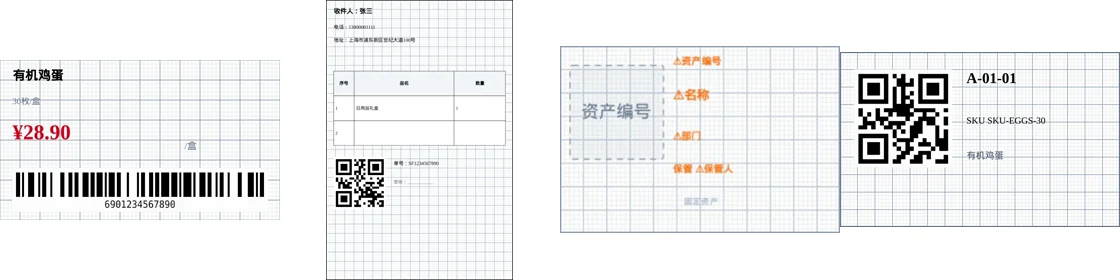
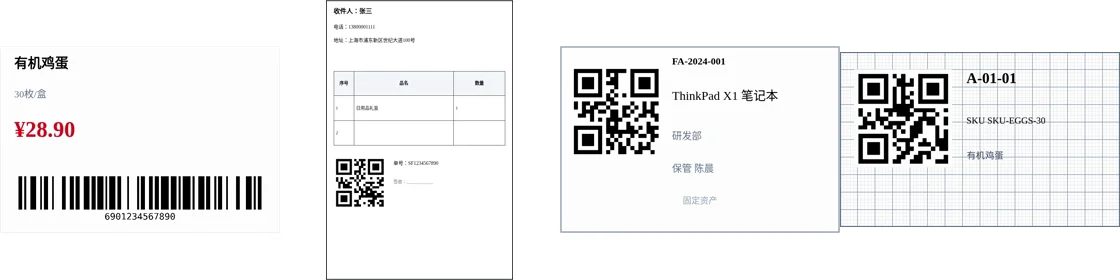
fix(marketing): production preview assets, white capture mode, template polish
Use ci64.com print-preview WebPs for price/waybill/asset specimens; re-capture
hero with ?marketingCapture=1 (white desk, grid off). Polish built-in scene
templates and tpl_price_tag layout. Preserve marketingCapture query after apply.

diff --git a/src/utils/templates.js b/src/utils/templates.js
@@ -21,6 +21,11 @@ const qrcode = (id, name, { left, top, width, height, binding = '', text: t = ''
   text: t, binding
 })
 
+const rect = (id, name, { left, top, width, height, fill = '#2563eb', stroke = '', strokeWidth = 0 }) => ({
+  id, type: 'rect', name, left, top, width, height, angle: 0,
+  fill, stroke, strokeWidth, binding: ''
+})
+
 const table = (id, name, { left, top, width, height, rows, cols, fontSize = 8, cells = {}, colWidths = [], cellPadding = 1 }) => ({
   id, type: 'table', name, left, top, width, height, angle: 0,
   rows, cols, cellPadding, borderColor: '#333', borderWidth: 0.2,
@@ -45,10 +50,10 @@ export const BUILTIN_TEMPLATES = [
     margin: zeroMargin,
     layout: { ...singleLayout },
     components: [
-      text('tpl_price_tag-c1', '商品名', { left: 3, top: 2, width: 54, height: 7, text: '{{产品名称}}', fontSize: 11, fontWeight: 'bold' }),
-      text('tpl_price_tag-c2', '规格', { left: 3, top: 9, width: 54, height: 5, text: '{{规格}}', fontSize: 8, fill: '#64748b' }),
-      text('tpl_price_tag-c3', '价格', { left: 3, top: 15, width: 54, height: 10, text: '¥{{价格}}', fontSize: 18, fontWeight: 'bold', fill: '#d0021b' }),
-      barcode('tpl_price_tag-c4', '条码', { left: 3, top: 27, width: 54, height: 11, binding: '条码' })
+      text('tpl_price_tag-c1', '商品名', { left: 4, top: 3, width: 52, height: 8, text: '{{产品名称}}', fontSize: 12, fontWeight: 'bold' }),
+      text('tpl_price_tag-c2', '规格', { left: 4, top: 11, width: 52, height: 5, text: '{{规格}}', fontSize: 8, fill: '#64748b' }),
+      text('tpl_price_tag-c3', '价格', { left: 4, top: 17, width: 52, height: 12, text: '¥{{价格}}', fontSize: 22, fontWeight: 'bold', fill: '#d0021b' }),
+      barcode('tpl_price_tag-c4', '条码', { left: 4, top: 30, width: 52, height: 9, binding: '条码' })
     ]
   },
   {
@@ -136,11 +141,13 @@ export const BUILTIN_TEMPLATES = [
     margin: zeroMargin,
     layout: { ...singleLayout },
     components: [
-      text('tpl_express-c1', '收件人', { left: 4, top: 4, width: 92, height: 8, text: '收件人：{{收件人}}', fontSize: 13, fontWeight: 'bold' }),
-      text('tpl_express-c2', '电话', { left: 4, top: 13, width: 92, height: 6, text: '电话：{{电话}}', fontSize: 10 }),
-      text('tpl_express-c3', '地址', { left: 4, top: 20, width: 92, height: 14, text: '地址：{{地址}}', fontSize: 10 }),
+      rect('tpl_express-r1', '标题栏', { left: 0, top: 0, width: 100, height: 10, fill: '#2563eb' }),
+      text('tpl_express-h1', '标题', { left: 4, top: 2.5, width: 92, height: 5, text: '快递面单', fontSize: 11, fontWeight: 'bold', fill: '#ffffff', textAlign: 'center' }),
+      text('tpl_express-c1', '收件人', { left: 5, top: 13, width: 90, height: 7, text: '{{收件人}}', fontSize: 14, fontWeight: 'bold' }),
+      text('tpl_express-c2', '电话', { left: 5, top: 21, width: 90, height: 5, text: '电话 {{电话}}', fontSize: 9, fill: '#475569' }),
+      text('tpl_express-c3', '地址', { left: 5, top: 27, width: 90, height: 12, text: '{{地址}}', fontSize: 9, fill: '#334155' }),
       table('tpl_express-c4', '明细', {
-        left: 4, top: 38, width: 92, height: 40, rows: 3, cols: 3, fontSize: 9,
+        left: 5, top: 42, width: 90, height: 36, rows: 3, cols: 3, fontSize: 8,
         colWidths: [12, 58, 30],
         cells: {
           '0,0': { text: '序号', binding: '' },
@@ -154,9 +161,9 @@ export const BUILTIN_TEMPLATES = [
           '2,2': { text: '', binding: '' }
         }
       }),
-      qrcode('tpl_express-c5', '面单二维码', { left: 4, top: 84, width: 28, height: 28, binding: '单号' }),
-      text('tpl_express-c6', '单号', { left: 36, top: 86, width: 60, height: 7, text: '单号：{{单号}}', fontSize: 10 }),
-      text('tpl_express-c7', '备注', { left: 36, top: 96, width: 60, height: 14, text: '签收：____________', fontSize: 9, fill: '#64748b' })
+      qrcode('tpl_express-c5', '面单二维码', { left: 5, top: 82, width: 26, height: 26, binding: '单号' }),
+      text('tpl_express-c6', '单号', { left: 34, top: 84, width: 61, height: 6, text: '运单 {{单号}}', fontSize: 9, fontWeight: 'bold' }),
+      text('tpl_express-c7', '备注', { left: 34, top: 92, width: 61, height: 12, text: '签收：________', fontSize: 8, fill: '#64748b' })
     ]
   },
   {
@@ -170,11 +177,13 @@ export const BUILTIN_TEMPLATES = [
     margin: zeroMargin,
     layout: { ...singleLayout },
     components: [
-      text('tpl_grocery_price-c1', '品名', { left: 3, top: 2, width: 64, height: 7, text: '{{品名}}', fontSize: 12, fontWeight: 'bold' }),
-      text('tpl_grocery_price-c2', '规格', { left: 3, top: 9, width: 64, height: 5, text: '{{规格}}', fontSize: 8, fill: '#64748b' }),
-      text('tpl_grocery_price-c3', '单价', { left: 3, top: 15, width: 42, height: 10, text: '¥{{单价}}', fontSize: 20, fontWeight: 'bold', fill: '#d0021b' }),
-      text('tpl_grocery_price-c4', '单位', { left: 46, top: 20, width: 21, height: 5, text: '/{{单位}}', fontSize: 9, fill: '#64748b' }),
-      barcode('tpl_grocery_price-c5', '条码', { left: 3, top: 27, width: 64, height: 11, binding: '条码' })
+      rect('tpl_grocery_price-r1', '顶栏', { left: 0, top: 0, width: 70, height: 7, fill: '#2563eb' }),
+      text('tpl_grocery_price-h1', '顶栏字', { left: 3, top: 1.5, width: 64, height: 4, text: '生鲜价签', fontSize: 7, fontWeight: 'bold', fill: '#ffffff' }),
+      text('tpl_grocery_price-c1', '品名', { left: 4, top: 9, width: 62, height: 7, text: '{{品名}}', fontSize: 11, fontWeight: 'bold' }),
+      text('tpl_grocery_price-c2', '规格', { left: 4, top: 16, width: 62, height: 4.5, text: '{{规格}}', fontSize: 7.5, fill: '#64748b' }),
+      text('tpl_grocery_price-c3', '单价', { left: 4, top: 21, width: 40, height: 11, text: '¥{{单价}}', fontSize: 22, fontWeight: 'bold', fill: '#d0021b' }),
+      text('tpl_grocery_price-c4', '单位', { left: 44, top: 26, width: 22, height: 4, text: '/{{单位}}', fontSize: 8, fill: '#94a3b8' }),
+      barcode('tpl_grocery_price-c5', '条码', { left: 4, top: 30, width: 62, height: 9, binding: '条码' })
     ]
   },
   {
@@ -188,10 +197,11 @@ export const BUILTIN_TEMPLATES = [
     margin: zeroMargin,
     layout: { ...singleLayout },
     components: [
-      text('tpl_jewelry-c1', '品名', { left: 1.5, top: 1, width: 28, height: 4, text: '{{品名}}', fontSize: 7, fontWeight: 'bold' }),
-      text('tpl_jewelry-c2', '克重', { left: 1.5, top: 5, width: 28, height: 3.5, text: '{{克重}}g', fontSize: 6, fill: '#475569' }),
-      text('tpl_jewelry-c3', '工费', { left: 1.5, top: 8.5, width: 28, height: 3.5, text: '工费 ¥{{工费}}', fontSize: 6, fill: '#d0021b' }),
-      barcode('tpl_jewelry-c4', '条码', { left: 30, top: 2, width: 18, height: 16, binding: '条码' })
+      rect('tpl_jewelry-r1', '顶条', { left: 0, top: 0, width: 50, height: 3.5, fill: '#1e293b' }),
+      text('tpl_jewelry-c1', '品名', { left: 2, top: 4.5, width: 28, height: 4.5, text: '{{品名}}', fontSize: 7.5, fontWeight: 'bold' }),
+      text('tpl_jewelry-c2', '克重', { left: 2, top: 9, width: 28, height: 3.5, text: '{{克重}} g', fontSize: 6.5, fill: '#475569' }),
+      text('tpl_jewelry-c3', '工费', { left: 2, top: 12.5, width: 28, height: 3.5, text: '工费 ¥{{工费}}', fontSize: 6.5, fill: '#d0021b', fontWeight: 'bold' }),
+      barcode('tpl_jewelry-c4', '条码', { left: 31, top: 3, width: 17, height: 15, binding: '条码' })
     ]
   },
   {
@@ -205,11 +215,13 @@ export const BUILTIN_TEMPLATES = [
     margin: zeroMargin,
     layout: { ...singleLayout },
     components: [
-      text('tpl_apparel_hang-c1', '款号', { left: 3, top: 3, width: 34, height: 6, text: '{{款号}}', fontSize: 11, fontWeight: 'bold', textAlign: 'center' }),
-      text('tpl_apparel_hang-c2', '尺码', { left: 3, top: 11, width: 34, height: 5, text: '尺码 {{尺码}}', fontSize: 9, textAlign: 'center' }),
-      text('tpl_apparel_hang-c3', '颜色', { left: 3, top: 17, width: 34, height: 5, text: '{{颜色}}', fontSize: 9, textAlign: 'center', fill: '#64748b' }),
-      text('tpl_apparel_hang-c4', '吊牌价', { left: 3, top: 25, width: 34, height: 9, text: '¥{{吊牌价}}', fontSize: 16, fontWeight: 'bold', fill: '#d0021b', textAlign: 'center' }),
-      barcode('tpl_apparel_hang-c5', '条码', { left: 4, top: 37, width: 32, height: 18, binding: '条码' })
+      rect('tpl_apparel_hang-r1', '品牌条', { left: 0, top: 0, width: 40, height: 8, fill: '#2563eb' }),
+      text('tpl_apparel_hang-h1', '品牌', { left: 3, top: 2, width: 34, height: 4, text: '吊牌价', fontSize: 7, fill: '#ffffff', textAlign: 'center', fontWeight: 'bold' }),
+      text('tpl_apparel_hang-c1', '款号', { left: 3, top: 10, width: 34, height: 6, text: '{{款号}}', fontSize: 10, fontWeight: 'bold', textAlign: 'center' }),
+      text('tpl_apparel_hang-c2', '尺码', { left: 3, top: 17, width: 34, height: 5, text: '尺码 {{尺码}}', fontSize: 8.5, textAlign: 'center' }),
+      text('tpl_apparel_hang-c3', '颜色', { left: 3, top: 22, width: 34, height: 5, text: '{{颜色}}', fontSize: 8.5, textAlign: 'center', fill: '#64748b' }),
+      text('tpl_apparel_hang-c4', '吊牌价', { left: 3, top: 29, width: 34, height: 9, text: '¥{{吊牌价}}', fontSize: 17, fontWeight: 'bold', fill: '#d0021b', textAlign: 'center' }),
+      barcode('tpl_apparel_hang-c5', '条码', { left: 5, top: 40, width: 30, height: 16, binding: '条码' })
     ]
   },
   {
@@ -239,12 +251,14 @@ export const BUILTIN_TEMPLATES = [
     margin: zeroMargin,
     layout: { ...singleLayout },
     components: [
-      qrcode('tpl_asset_fixed-c1', '二维码', { left: 2, top: 4, width: 20, height: 20, binding: '资产编号' }),
-      text('tpl_asset_fixed-c2', '资产编号', { left: 24, top: 2, width: 34, height: 5, text: '{{资产编号}}', fontSize: 8, fontWeight: 'bold' }),
-      text('tpl_asset_fixed-c3', '名称', { left: 24, top: 9, width: 34, height: 7, text: '{{名称}}', fontSize: 10 }),
-      text('tpl_asset_fixed-c4', '部门', { left: 24, top: 18, width: 34, height: 5, text: '{{部门}}', fontSize: 8, fill: '#64748b' }),
-      text('tpl_asset_fixed-c5', '保管人', { left: 24, top: 25, width: 34, height: 5, text: '保管 {{保管人}}', fontSize: 8, fill: '#64748b' }),
-      text('tpl_asset_fixed-c6', '底栏', { left: 2, top: 32, width: 56, height: 5, text: '固定资产', fontSize: 7, fill: '#94a3b8', textAlign: 'center' })
+      rect('tpl_asset_fixed-r1', '顶栏', { left: 0, top: 0, width: 60, height: 6, fill: '#0f172a' }),
+      text('tpl_asset_fixed-h1', '顶栏字', { left: 2, top: 1.2, width: 56, height: 3.5, text: '固定资产', fontSize: 7, fill: '#ffffff', textAlign: 'center', fontWeight: 'bold' }),
+      qrcode('tpl_asset_fixed-c1', '二维码', { left: 3, top: 8, width: 18, height: 18, binding: '资产编号' }),
+      text('tpl_asset_fixed-c2', '资产编号', { left: 23, top: 8, width: 34, height: 5, text: '{{资产编号}}', fontSize: 8, fontWeight: 'bold' }),
+      text('tpl_asset_fixed-c3', '名称', { left: 23, top: 14, width: 34, height: 6, text: '{{名称}}', fontSize: 9.5, fontWeight: 'bold' }),
+      text('tpl_asset_fixed-c4', '部门', { left: 23, top: 21, width: 34, height: 4.5, text: '{{部门}}', fontSize: 7.5, fill: '#64748b' }),
+      text('tpl_asset_fixed-c5', '保管人', { left: 23, top: 26, width: 34, height: 4.5, text: '保管 {{保管人}}', fontSize: 7.5, fill: '#64748b' }),
+      rect('tpl_asset_fixed-r2', '底条', { left: 0, top: 34, width: 60, height: 6, fill: '#f1f5f9' })
     ]
   },
   {
@@ -258,10 +272,11 @@ export const BUILTIN_TEMPLATES = [
     margin: zeroMargin,
     layout: { ...singleLayout },
     components: [
-      qrcode('tpl_warehouse_bin-c1', '库位码', { left: 4, top: 5, width: 28, height: 28, binding: '库位' }),
-      text('tpl_warehouse_bin-c2', '库位', { left: 36, top: 5, width: 40, height: 10, text: '{{库位}}', fontSize: 16, fontWeight: 'bold' }),
-      text('tpl_warehouse_bin-c3', 'SKU', { left: 36, top: 18, width: 40, height: 7, text: 'SKU {{SKU}}', fontSize: 10 }),
-      text('tpl_warehouse_bin-c4', '品名', { left: 36, top: 28, width: 40, height: 14, text: '{{品名}}', fontSize: 10, fill: '#475569' })
+      rect('tpl_warehouse_bin-r1', '侧条', { left: 0, top: 0, width: 4, height: 50, fill: '#2563eb' }),
+      qrcode('tpl_warehouse_bin-c1', '库位码', { left: 7, top: 8, width: 26, height: 26, binding: '库位' }),
+      text('tpl_warehouse_bin-c2', '库位', { left: 36, top: 8, width: 40, height: 11, text: '{{库位}}', fontSize: 18, fontWeight: 'bold' }),
+      text('tpl_warehouse_bin-c3', 'SKU', { left: 36, top: 21, width: 40, height: 6, text: 'SKU {{SKU}}', fontSize: 9, fill: '#475569' }),
+      text('tpl_warehouse_bin-c4', '品名', { left: 36, top: 28, width: 40, height: 14, text: '{{品名}}', fontSize: 10, fill: '#334155' })
     ]
   }
 ]

diff --git a/src/views/EditorView.vue b/src/views/EditorView.vue
@@ -336,7 +336,11 @@ async function consumeApplyQuery() {
     toastError(t('导入失败：{msg}', { msg: e.message || String(e) }))
   } finally {
     applyingFromQuery = false
-    router.replace({ path: '/app' })
+    const query = {}
+    if (route.query.pick === '1') query.pick = '1'
+    if (route.query.marketingCapture === '1') query.marketingCapture = '1'
+    router.replace({ path: '/app', query })
+    if (route.query.marketingCapture === '1') syncMarketingCaptureMode()
   }
 }
 
@@ -344,6 +348,28 @@ watch(
   () => [route.query.applyPack, route.query.applyTemplate, storageReady.value],
   () => { void consumeApplyQuery() }
 )
+
+function syncMarketingCaptureMode() {
+  const on = route.query.marketingCapture === '1'
+  if (on) {
+    document.body.classList.add('marketing-capture')
+    project.showGrid = false
+  } else {
+    document.body.classList.remove('marketing-capture')
+  }
+}
+
+watch(
+  () => [route.query.marketingCapture, storageReady.value],
+  () => {
+    if (storageReady.value) syncMarketingCaptureMode()
+  },
+  { immediate: true }
+)
+
+onBeforeUnmount(() => {
+  document.body.classList.remove('marketing-capture')
+})
 
 const paperConfigVisible = ref(false)
 const printConfigVisible = ref(false)

diff --git a/src/content/marketingAssets.js b/src/content/marketingAssets.js
@@ -1,6 +1,6 @@
 /**
  * 营销壳资产（public/marketing/*.webp）
- * 截自本地 /app 画布与界面（与 ci64.com 同源），非 AI 假图。
+ * 优先使用 ci64.com 打印预览/界面截图；标本图为真实模板 + 示例数据输出。
  */
 import { SCENE_PACKS } from '../utils/scenePacks.js'
 import { getTemplateCatalog } from '../utils/templatesCatalog.js'
@@ -10,15 +10,15 @@ const BASE = '/marketing'
 const SPECIMEN = {
   priceTag: {
     src: `${BASE}/sample-price-tag.webp`,
-    alt: '签立方画布导出的生鲜价签预览（示例数据）'
+    alt: '签立方打印预览：60×40 价签（有机鸡蛋示例）'
   },
   waybill: {
     src: `${BASE}/sample-waybill.webp`,
-    alt: '签立方画布导出的快递面单预览（示例数据）'
+    alt: '签立方打印预览：快递面单'
   },
   assetTag: {
     src: `${BASE}/sample-asset-tag.webp`,
-    alt: '签立方画布导出的资产贴预览（示例数据）'
+    alt: '签立方打印预览：固定资产贴'
   },
   binLabel: {
     src: `${BASE}/sample-bin-label.webp`,

diff --git a/src/styles/main.css b/src/styles/main.css
@@ -296,3 +296,17 @@ input, select, textarea {
   min-width: 80px;
   color: var(--text-secondary);
 }
+
+/* 营销截图：白底工作台、关闭设计网格（?marketingCapture=1） */
+body.marketing-capture .design-canvas-wrap {
+  --canvas-desk: #ffffff;
+  --canvas-checker: #ffffff;
+  background-color: #ffffff !important;
+  background-image: none !important;
+}
+body.marketing-capture-specimen .design-canvas-wrap .info-bar {
+  display: none !important;
+}
+body.marketing-capture-specimen .label-canvas-wrapper {
+  box-shadow: 0 1px 10px rgba(15, 23, 42, 0.08);
+}
